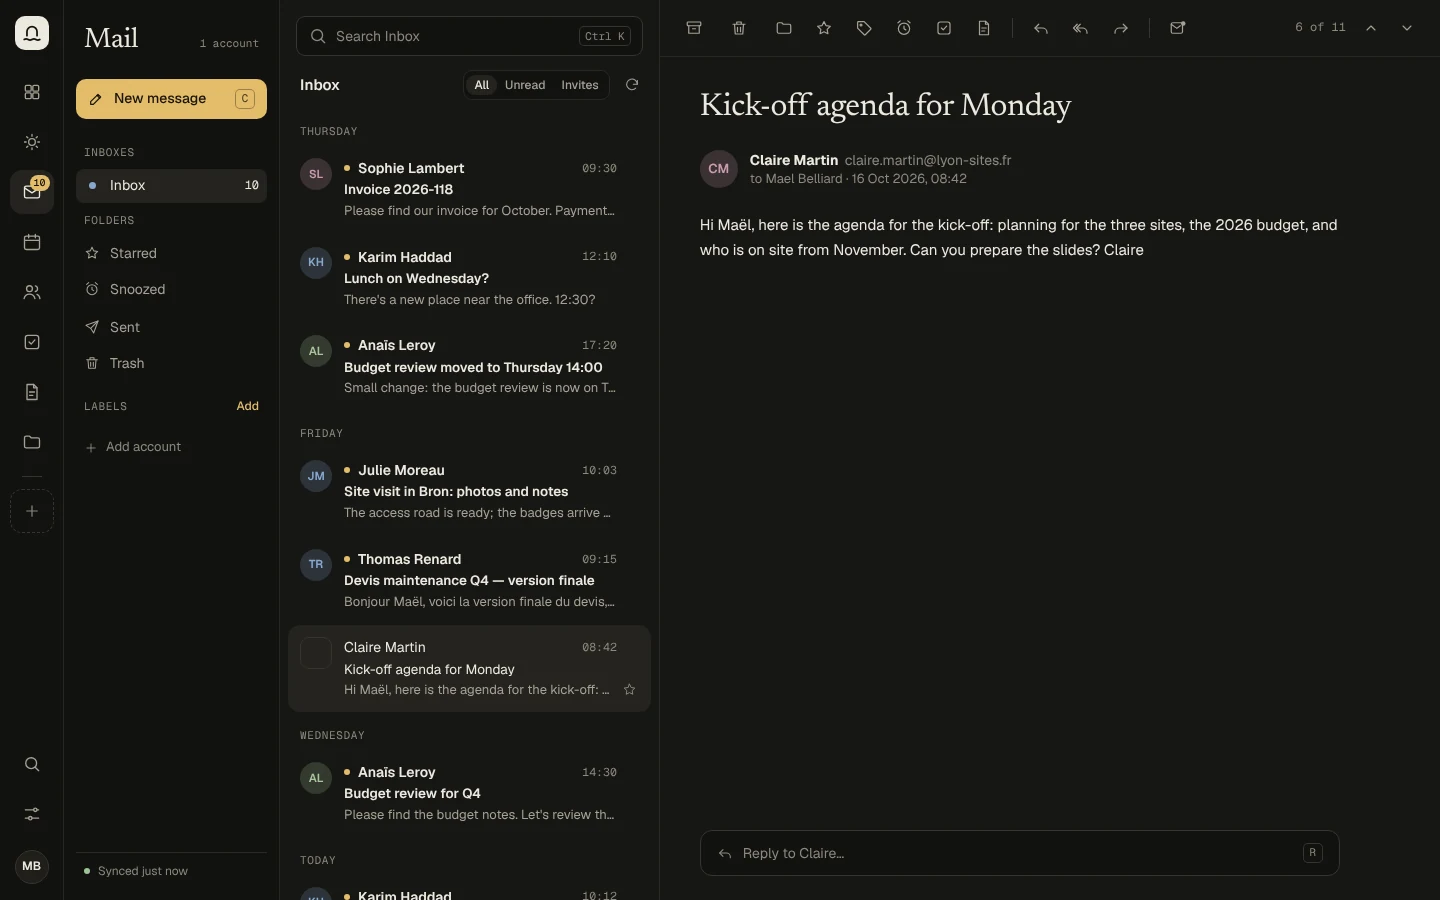
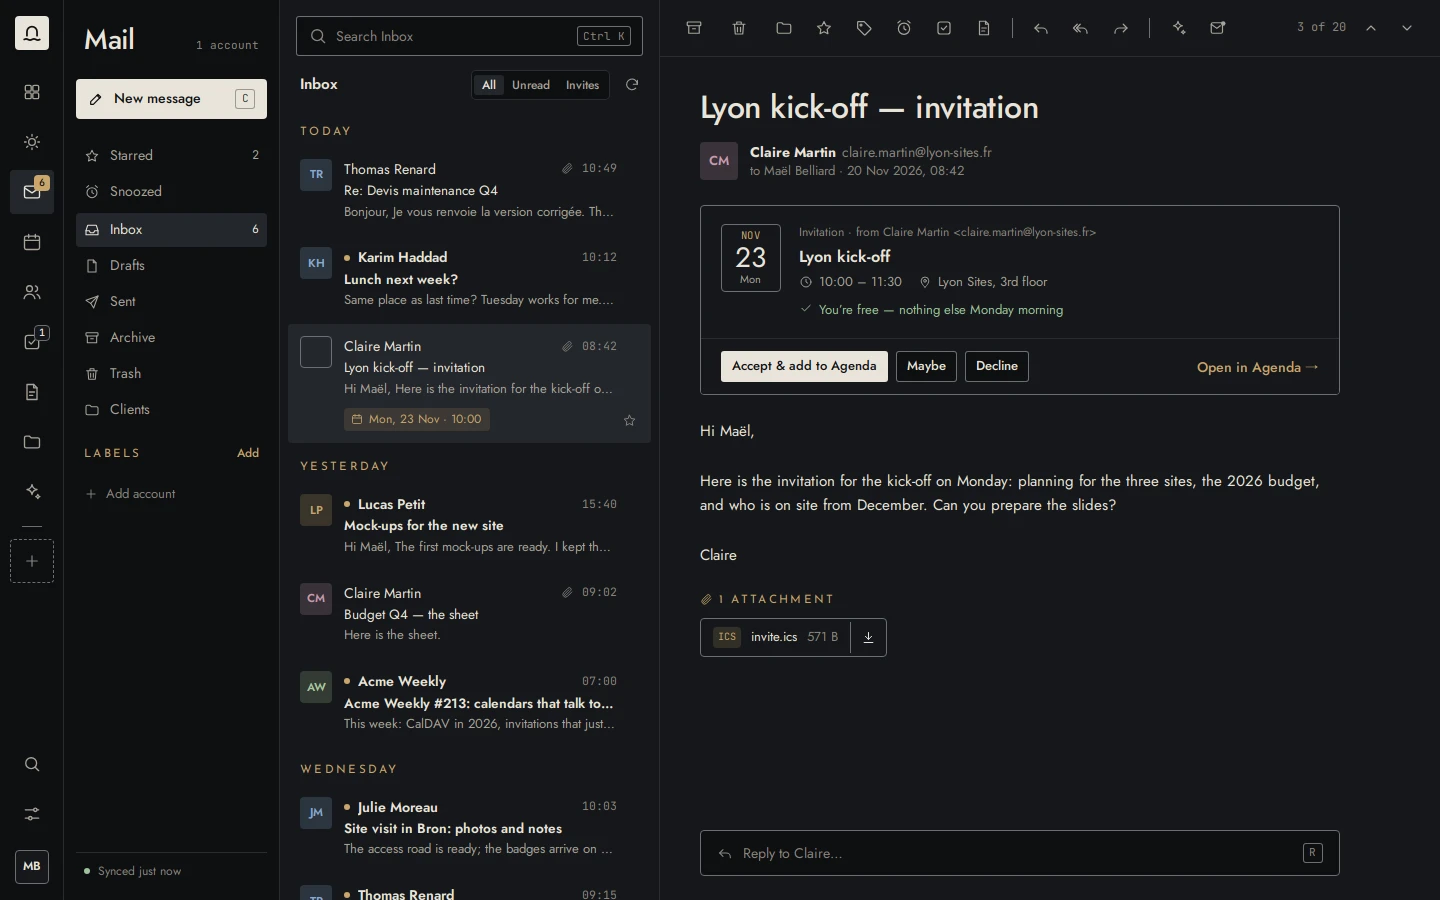
docs: refresh the README presentation (#86)
* docs: refresh the README presentation

Replace the stale 'no release yet' warning, add release and Docker badges, a 'Why Havre' section, an architecture diagram, the installable phone app, and the multi-user next steps.

* docs: retake the screenshots and show every app

New screenshots of Mail, Today, Agenda and Ctrl+K, and new ones of People, Tasks, Notes, Files, the AI assistant and the phone layout, all with made-up data. The README shows them in a grid.

diff --git a/README.md b/README.md
@@ -7,16 +7,17 @@
 **Your mail, calendars and everyday apps — self-hosted, private, and working together.**
 
 [![CI](https://github.com/maelbel/havre/actions/workflows/ci.yml/badge.svg)](https://github.com/maelbel/havre/actions/workflows/ci.yml)
+[![Release](https://img.shields.io/github/v/release/maelbel/havre?sort=semver)](https://github.com/maelbel/havre/releases/latest)
+[![Docker image](https://img.shields.io/badge/docker-ghcr.io%2Fmaelbel%2Fhavre-2496ED.svg?logo=docker&logoColor=white)](docs/installation.md#with-the-ready-made-image)
 [![License: AGPL v3](https://img.shields.io/badge/license-AGPL--3.0-blue.svg)](LICENSE)
 [![Rust](https://img.shields.io/badge/Rust-2024-orange.svg?logo=rust)](https://www.rust-lang.org)
-![Status](https://img.shields.io/badge/status-early%20development-yellow.svg)
 
 [Installation](docs/installation.md) · [User guide](docs/user-guide.md) · [Roadmap](docs/ROADMAP.md) ·
 [Contributing](CONTRIBUTING.md)
 
 <picture>
   <source media="(prefers-color-scheme: light)" srcset="docs/assets/screenshots/mail-light.webp">
-  <img src="docs/assets/screenshots/mail-dark.webp" alt="Havre Mail: the inbox, grouped by day, with a message open">
+  <img src="docs/assets/screenshots/mail-dark.webp" alt="Havre Mail: the inbox, grouped by day, with a meeting invitation open">
 </picture>
 
 </div>
@@ -28,9 +29,21 @@ calm interface, and lets the apps share what they know: the people you write to,
 exchange. It runs on your own server as a single Rust binary with a SQLite database, talks directly to your mail and
 calendar providers, and loads nothing from third-party servers.
 
-> [!WARNING]
-> Havre is in early development (0.x) and has no release yet. It is usable day to day, but expect changes — and keep
-> backups (Havre makes nightly ones for you).
+> [!NOTE]
+> Havre is young (0.x). It is used day to day, but things still change between releases: read the
+> [changelog](CHANGELOG.md) before updating, and keep backups (Havre makes nightly ones for you). Grab the
+> [latest release](https://github.com/maelbel/havre/releases/latest).
+
+### Why Havre
+
+- **Yours, end to end** — one Rust binary and one SQLite file on your own machine; it talks straight to your mail
+  and calendar providers and loads nothing from third-party servers. Credentials are encrypted at rest.
+- **Apps that know each other** — a person links to your mail with them, your meetings, notes, tasks and files;
+  an invitation is answered from Mail; a note becomes tasks.
+- **Calm by design** — one inbox for every account, one agenda for every calendar, a Today page, and Ctrl+K to
+  reach anything.
+- **AI if you want it, never in charge** — off unless you add it, local with Ollama if you prefer, and it only
+  *proposes*: nothing is sent, created or deleted without your click.
 
 ## Features
 
@@ -60,7 +73,8 @@ calendar providers, and loads nothing from third-party servers.
   - Only *proposes* actions: nothing is sent, created or changed without your confirmation
 - **Made for self-hosting**
   - Docker image, nightly backups with a recovery key, credentials encrypted at rest
-  - Havre Desktop for Windows, macOS and Linux (tray, notifications, default mail app)
+  - Havre Desktop for Windows, macOS and Linux (tray, notifications, default mail app), and an installable web
+    app for your phone with push notifications
   - An [MCP](https://modelcontextprotocol.io) endpoint so AI tools can use your data, with your permission
   - A Ctrl+K command palette, keyboard shortcuts, dark and light themes
 
@@ -68,16 +82,38 @@ calendar providers, and loads nothing from third-party servers.
 
 <table>
   <tr>
-    <td width="33%"><img src="docs/assets/screenshots/agenda.webp" alt="Agenda: the week view with events from several calendars"></td>
-    <td width="33%"><img src="docs/assets/screenshots/today.webp" alt="Today: the day's overview and unread mail"></td>
-    <td width="33%"><img src="docs/assets/screenshots/command-palette.webp" alt="Ctrl+K: people, tasks and mail found as you type"></td>
+    <td width="33%"><img src="docs/assets/screenshots/today.webp" alt="Today: the day's meetings, a short brief, tasks due and unread mail"></td>
+    <td width="33%"><img src="docs/assets/screenshots/agenda.webp" alt="Agenda: the week view, with an invitation found in mail"></td>
+    <td width="33%"><img src="docs/assets/screenshots/people.webp" alt="People: a contact's page with your mail, files, tasks and notes together"></td>
   </tr>
   <tr>
-    <td align="center"><sub>Agenda</sub></td>
     <td align="center"><sub>Today</sub></td>
+    <td align="center"><sub>Agenda</sub></td>
+    <td align="center"><sub>People</sub></td>
+  </tr>
+  <tr>
+    <td width="33%"><img src="docs/assets/screenshots/tasks.webp" alt="Tasks: upcoming to-dos with dates and the people they are about"></td>
+    <td width="33%"><img src="docs/assets/screenshots/notes.webp" alt="Notes: a Markdown note for a meeting, with to-dos that become tasks"></td>
+    <td width="33%"><img src="docs/assets/screenshots/files.webp" alt="Files: every attachment from your mail, versions grouped, with a preview"></td>
+  </tr>
+  <tr>
+    <td align="center"><sub>Tasks</sub></td>
+    <td align="center"><sub>Notes</sub></td>
+    <td align="center"><sub>Files</sub></td>
+  </tr>
+  <tr>
+    <td width="33%"><img src="docs/assets/screenshots/command-palette.webp" alt="Ctrl+K: people, notes, files and mail found as you type"></td>
+    <td width="33%"><img src="docs/assets/screenshots/ai.webp" alt="AI: the assistant answers from your notes and tasks and prepares actions you confirm"></td>
+    <td width="33%" align="center"><img src="docs/assets/screenshots/phone.webp" alt="Havre on a phone: the Today page as an installed web app" width="62%"></td>
+  </tr>
+  <tr>
     <td align="center"><sub>Ctrl+K</sub></td>
+    <td align="center"><sub>AI, with your click</sub></td>
+    <td align="center"><sub>On your phone</sub></td>
   </tr>
 </table>
+
+<sub>Screenshots use made-up people and data.</sub>
 
 ## Getting started
 
@@ -104,6 +140,23 @@ Building from source, configuration, HTTPS and backups are covered in the [insta
 - [Havre Desktop](desktop/README.md) — installers, notifications, default mail app
 - [Development](docs/development.md) — code layout, local development, learning Rust with the codebase
 
+## Architecture
+
+```
+  Browser / phone (PWA)        Havre Desktop (Tauri)        AI tools (MCP clients)
+            └──────────────────────────┼─────────────────────────────┘
+                                       ▼
+              havre (Axum): JSON API /api · MCP /mcp · the Nuxt UI
+                                       ▼
+              havre-core: sync engines, agenda, people, tasks, notes, files, AI
+                 │                                │
+                 ▼                                ▼
+          SQLite (one file)        IMAP / SMTP · Microsoft Graph · Google · CalDAV
+```
+
+The server only parses requests; all the logic lives in `havre-core`, plain Rust with no HTTP. The code is written
+to be read by someone learning Rust — see [Development](docs/development.md).
+
 ## Built with
 
 [Rust](https://www.rust-lang.org) · [Axum](https://github.com/tokio-rs/axum) · [Tokio](https://tokio.rs) ·
@@ -112,8 +165,9 @@ Building from source, configuration, HTTPS and backups are covered in the [insta
 
 ## Roadmap
 
-Mail, Agenda, People, Today, Tasks, Notes, Files, AI, Havre Desktop and off-site backups are built. See the
-full [roadmap](docs/ROADMAP.md) for the rest.
+Mail, Agenda, People, Today, Tasks, Notes, Files, AI, Havre Desktop and off-site backups are built. Next up:
+**several users on one Havre** — every piece of data already has an owner; adding family members and signing in
+with Authentik (OpenID Connect) come next. See the full [roadmap](docs/ROADMAP.md).
 
 ## Contributing
 
